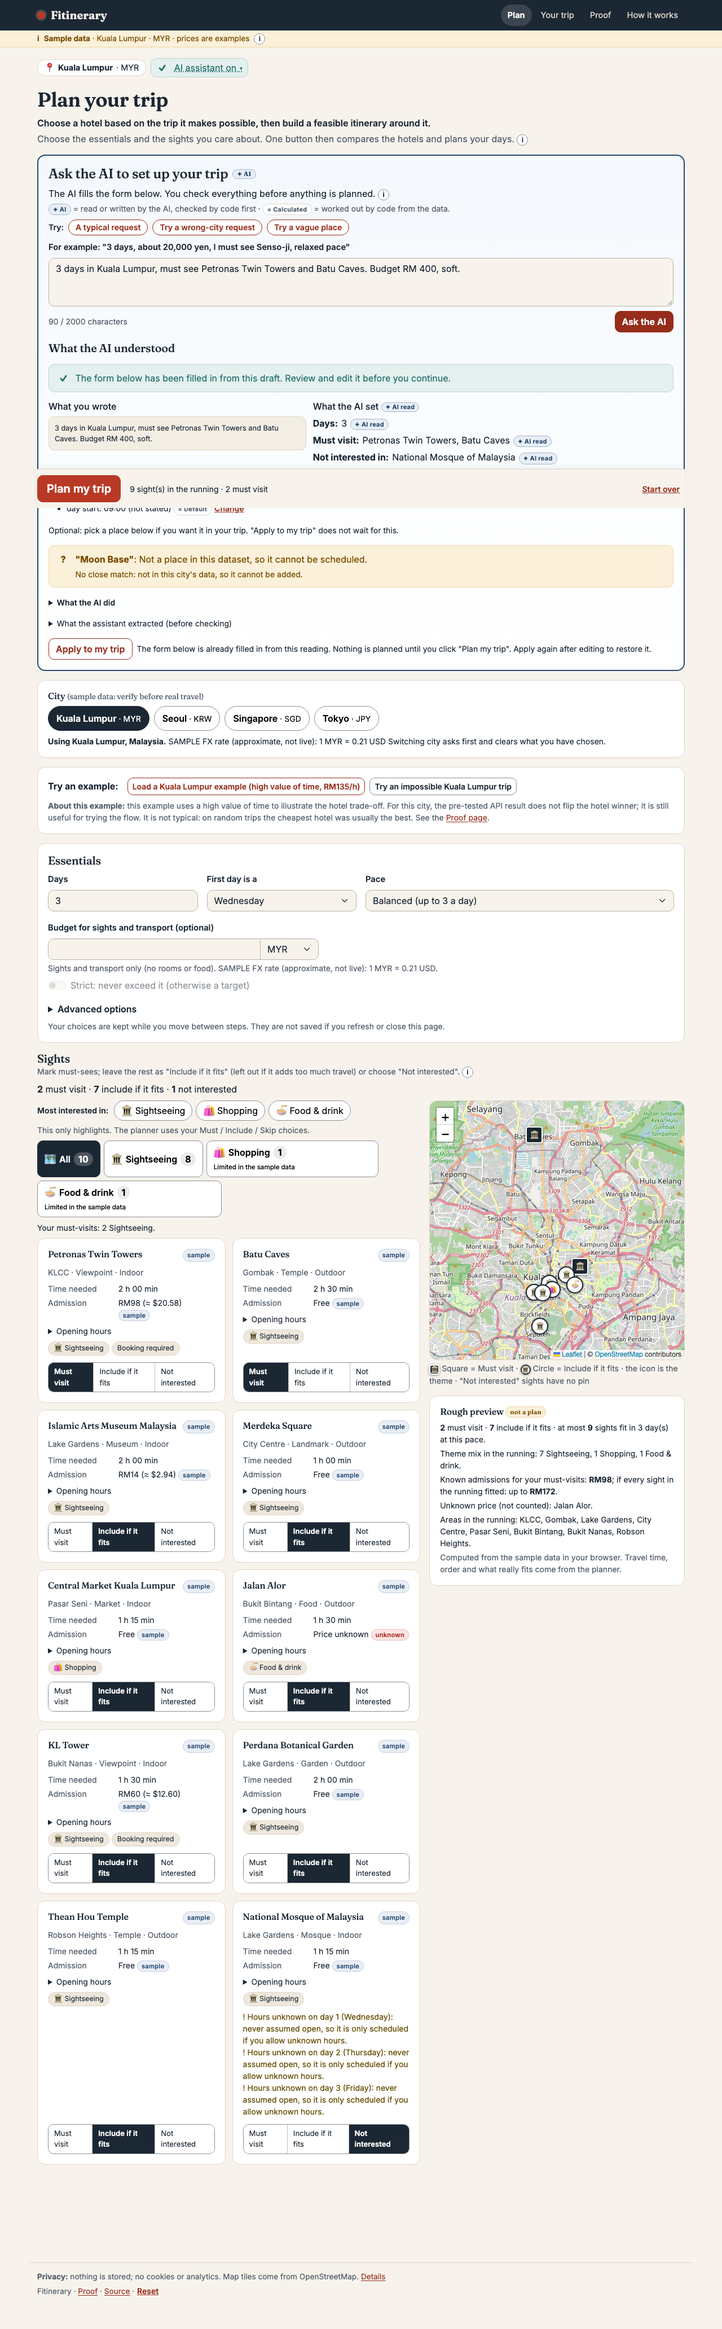
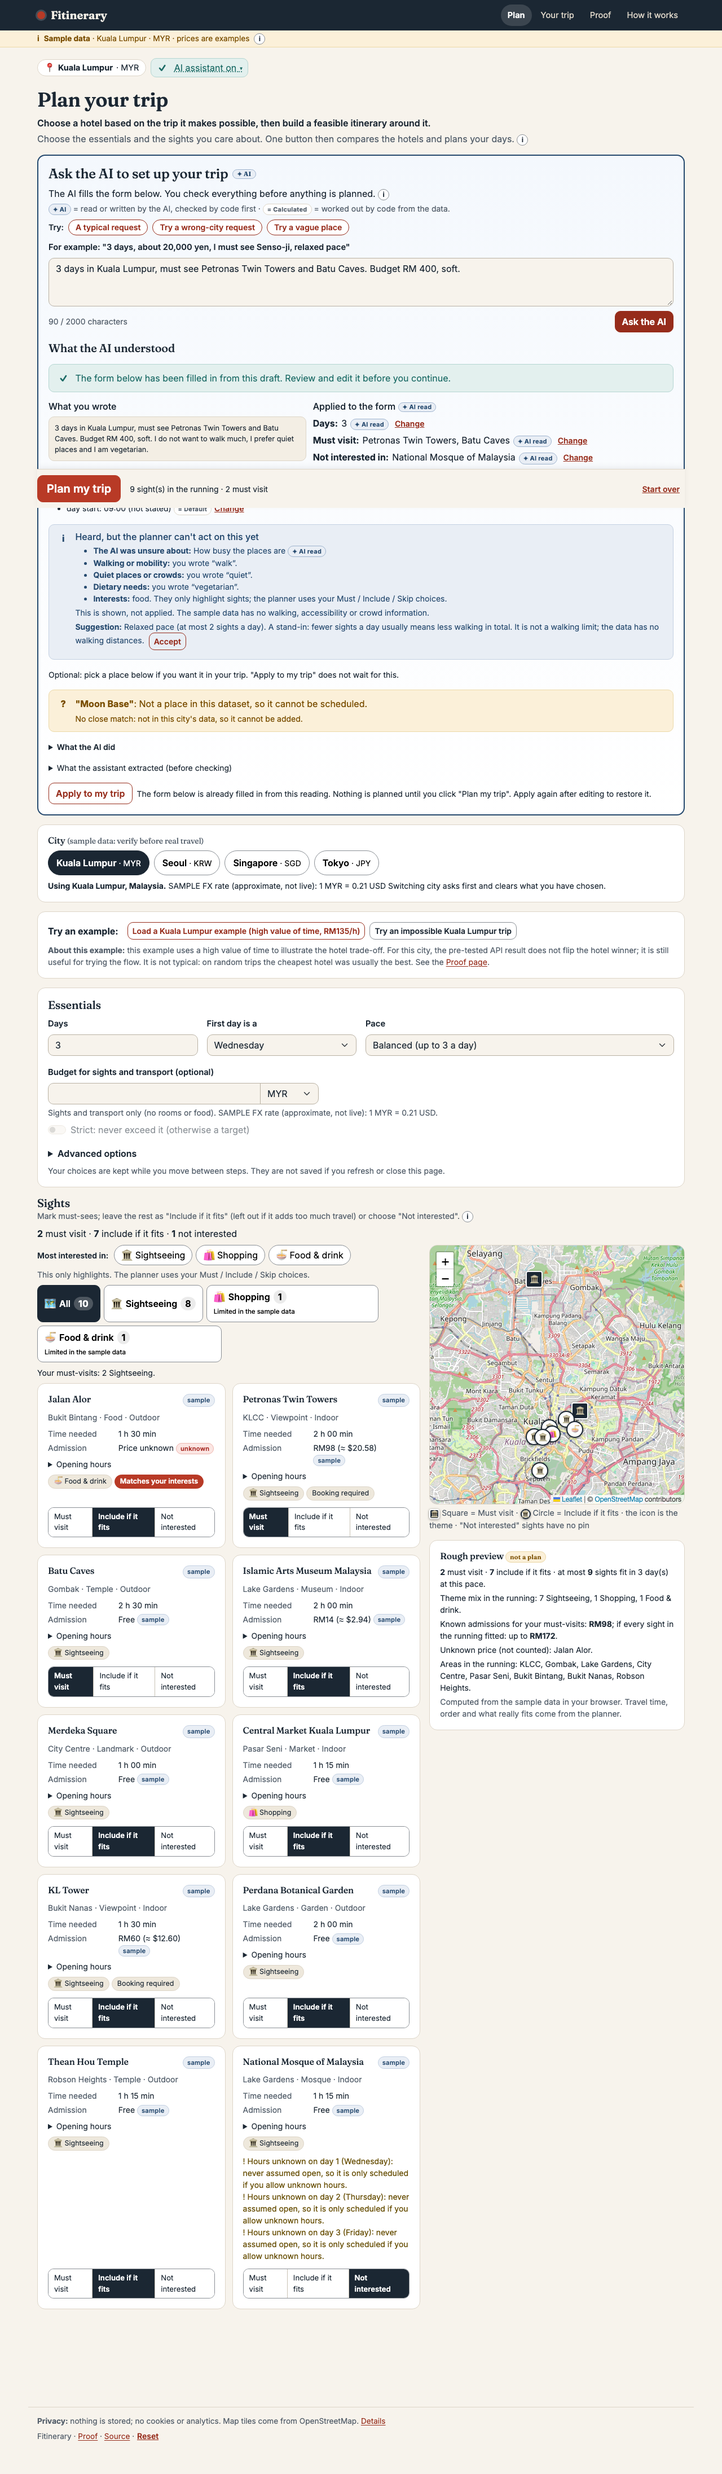
Item 2: what the AI could and could not apply (Applied to the form / Heard, but the planner can't act on this yet), keyword map in four languages, suggestions need an Accept click, tests, canned screenshots

diff --git a/frontend/tests/unit/heard.test.js b/frontend/tests/unit/heard.test.js
@@ -1,0 +1,110 @@
+// "What I could and couldn't apply": keywords per group and language, the footer wording, suggestions that need an Accept click, and the rule that only form fields reach the planner.
+import { afterEach, beforeEach, describe, expect, it } from 'vitest'
+import { mount } from '@vue/test-utils'
+import NlParsePanel from '../../src/components/NlParsePanel.vue'
+import { detectHeard, HEARD_FOOTER, HEARD_GROUPS, suggestionFor } from '../../src/lib/heard.js'
+import { appliedRows } from '../../src/lib/understood.js'
+import { DEFAULT_FORM } from '../../src/lib/prefs.js'
+import { currentPrefs, resetAll, store } from '../../src/store.js'
+import places from '../fixtures/places.json'
+
+// one real-looking sentence per group and language
+const SENTENCES = {
+  walking: { en: 'Three days, I do not want to walk much.', ms: 'Tiga hari, saya tidak mahu banyak berjalan.', ko: '3일 여행, 많이 걷고 싶지 않아요.', zh: '三天行程，我不想走路太多。' },
+  quiet: { en: 'Three days, quiet places please, no crowds.', ms: 'Tiga hari, tempat yang tenang, tidak sesak.', ko: '3일 여행, 조용한 곳이 좋아요.', zh: '三天行程，想去安静的地方。' },
+  access: { en: 'Three days, we need wheelchair access.', ms: 'Tiga hari, kami perlukan kerusi roda.', ko: '3일 여행, 휠체어가 필요해요.', zh: '三天行程，需要轮椅无障碍。' },
+  family: { en: 'Three days with two kids and my grandparents.', ms: 'Tiga hari bersama kanak-kanak dan nenek.', ko: '3일 여행, 아이와 부모님이 함께 가요.', zh: '三天行程，带孩子和老人。' },
+  diet: { en: 'Three days, I am vegetarian and need halal food.', ms: 'Tiga hari, saya vegetarian dan perlukan makanan halal.', ko: '3일 여행, 채식을 해요.', zh: '三天行程，我吃素。' },
+}
+const parseOk = (over = {}) => ({ status: 'ok', draft: { days: 3, budget: null, strict_budget: false, pace: 'balanced', interests: [], must_visit: ['senso_ji'], skip: [], day_start: '09:00', day_end: '19:00',
+  value_of_time_per_hour: 1000, max_walking_minutes_per_day: 90, start_weekday: 2, allow_unknown_hours: false, nights: null, locked: [] }, raw_input_echo: 'x', extracted_json: { days: 3 },
+  resolved_names: [], unresolved_names: [], ambiguities: [], defaults_applied: ['pace: balanced (not stated)'], clarifications: [], unclear: [], assumptions: {}, call_count: 1, mode: 'llm', prompt_version: '2', ...over })
+
+beforeEach(() => { resetAll(); store.cityId = 'tokyo'; store.city = { currency_code: 'JPY', display_currency_code: 'SGD' }; store.places = places.attractions })
+afterEach(() => { resetAll(); store.parseResult = null })
+
+describe('the keyword map', () => {
+  for (const [group, byLang] of Object.entries(SENTENCES)) {
+    for (const [lang, sentence] of Object.entries(byLang)) {
+      it(`${group} is heard in ${lang}`, () => {
+        expect(detectHeard(sentence).map((g) => g.id)).toContain(group)
+      })
+    }
+  }
+  it('every group has terms in all four languages', () => {
+    for (const g of HEARD_GROUPS) for (const lang of ['en', 'ms', 'ko', 'zh']) expect(g[lang].length, `${g.id} ${lang}`).toBeGreaterThan(0)
+  })
+  it('does not fire on ordinary requests, place names that contain a short keyword, or the AI-box examples', () => {
+    for (const t of ['3 days in Tokyo, relaxed pace, I must see Senso-ji and Tokyo Skytree. Budget 40,000 yen.', 'A day trip to Okutama and Bukit Bintang', '3 days in Seoul, balanced pace, must see Gyeongbokgung.', 'Gardens by the Bay and Jewel Changi', '东京三天，浅草寺，预算三万日元', 'Busan is not on the list'])
+      expect(detectHeard(t), t).toEqual([])
+  })
+  it('shows back the words it matched, whole words only unless marked as a prefix', () => {
+    expect(detectHeard('The crowded streets and my kid')).toEqual([expect.objectContaining({ id: 'quiet', terms: ['crowd'] }), expect.objectContaining({ id: 'family', terms: ['kid'] })])
+    expect(detectHeard('okutama')).toEqual([])
+    expect(detectHeard('oku friendly')).toEqual([expect.objectContaining({ id: 'access' })])
+  })
+  it('uses the agreed footer wording', () => {
+    expect(HEARD_FOOTER).toBe('This is shown, not applied. The sample data has no walking, accessibility or crowd information.')
+  })
+})
+
+describe('suggestions are stand-ins, offered only when they would change something', () => {
+  it('walking and family suggest a relaxed pace, quiet, access and diet suggest nothing', () => {
+    expect(suggestionFor('walking', DEFAULT_FORM())).toMatchObject({ field: 'pace', value: 'relaxed' })
+    expect(suggestionFor('family', DEFAULT_FORM())).toMatchObject({ field: 'pace', value: 'relaxed' })
+    for (const g of ['quiet', 'access', 'diet']) expect(suggestionFor(g, DEFAULT_FORM())).toBeNull()
+    expect(suggestionFor('walking', { ...DEFAULT_FORM(), pace: 'relaxed' })).toBeNull()
+    expect(suggestionFor('walking', DEFAULT_FORM()).why).toContain('not a walking limit')
+  })
+})
+
+describe('the panel: shown, not applied; nothing changes without a click; only form fields reach the planner', () => {
+  it('lists the AI notes, the keywords from the user\'s own sentence, interests and the footer, and none of it is an "applied" row', () => {
+    store.parseResult = parseOk({ raw_input_echo: SENTENCES.walking.en + ' ' + SENTENCES.diet.en, unclear: ['how busy the places are'], draft: { ...parseOk().draft, interests: ['food'] } })
+    const w = mount(NlParsePanel)
+    const heard = w.get('[data-testid=nl-heard]').text()
+    expect(heard).toContain("Heard, but the planner can't act on this yet")
+    expect(heard).toContain('The AI was unsure about: how busy the places are')
+    expect(heard).toContain('Walking or mobility') ; expect(heard).toContain('Dietary needs')
+    expect(heard).toContain('Interests: food. They only highlight sights')
+    expect(w.get('[data-testid=heard-footer]').text()).toBe(HEARD_FOOTER)
+    const applied = w.get('[data-testid=nl-rows]').text()
+    expect(applied).not.toMatch(/walk|vegetarian|food|busy/i)
+    expect(applied).toContain('Days')
+  })
+  it('the "Applied to the form" list holds only fields the planner uses, each with an AI read marker and a Change link', () => {
+    const rows = appliedRows(parseOk({ draft: { ...parseOk().draft, budget: 40000, interests: ['food'], pace: 'relaxed' }, defaults_applied: [] }), { places: places.attractions, currency: 'JPY' })
+    expect(rows.map((r) => r.field)).toEqual(['days', 'budget', 'pace', 'must'])
+    store.parseResult = parseOk({ draft: { ...parseOk().draft, budget: 40000 } })
+    const w = mount(NlParsePanel)
+    expect(w.findAll('[data-testid=nl-rows] [data-testid=ai-mark]').length).toBeGreaterThanOrEqual(3)
+    expect(w.findAll('[data-testid^=change-]').length).toBeGreaterThanOrEqual(3)
+  })
+  it('a preference is never turned into a constraint silently: the form and the planner request are unchanged until Accept is clicked', async () => {
+    store.parseResult = parseOk({ raw_input_echo: SENTENCES.walking.en })
+    store.form = { ...DEFAULT_FORM(), days: 3, pace: 'balanced' }
+    const before = JSON.stringify(currentPrefs().prefs)
+    const w = mount(NlParsePanel)
+    expect(w.get('[data-testid=suggestion]').text()).toContain('Relaxed pace')
+    expect(store.form.pace).toBe('balanced')
+    expect(JSON.stringify(currentPrefs().prefs)).toBe(before)                   // heard text and suggestions do not reach the request
+    await w.get('[data-testid=suggestion-accept]').trigger('click')
+    expect(store.form.pace).toBe('relaxed')
+    expect(currentPrefs().prefs.pace).toBe('relaxed')
+    expect(w.get('[data-testid=suggestion-accepted]').text()).toContain('set to relaxed')
+    // only that one field differs from before: nothing else slipped into the request
+    const after = currentPrefs().prefs
+    expect({ ...after, pace: 'balanced' }).toEqual(JSON.parse(before))
+  })
+  it('keywords never add a field to the request (no walking, accessibility, crowd, family or diet key)', () => {
+    const keysBefore = Object.keys(currentPrefs().prefs).sort()
+    store.parseResult = parseOk({ raw_input_echo: Object.values(SENTENCES).map((s) => s.en).join(' ') })
+    mount(NlParsePanel)
+    expect(Object.keys(currentPrefs().prefs).sort()).toEqual(keysBefore)                  // the request has exactly the keys it always had
+    expect(keysBefore.filter((k) => /access|crowd|quiet|family|child|diet|halal|vegetarian/i.test(k))).toEqual([])
+  })
+  it('nothing is shown when nothing was heard', () => {
+    store.parseResult = parseOk({ raw_input_echo: '3 days in Tokyo, relaxed pace.' })
+    expect(mount(NlParsePanel).find('[data-testid=nl-heard]').exists()).toBe(false)
+  })
+})

diff --git a/frontend/src/components/NlParsePanel.vue b/frontend/src/components/NlParsePanel.vue
@@ -11,7 +11,8 @@ import AiMark from './AiMark.vue'
 import AiLegend from './AiLegend.vue'
 import AiDrawer from './AiDrawer.vue'
 import aiExamples from '../lib/aiExamples.json'
-import { assumedList, understoodRows } from '../lib/understood.js'
+import { appliedRows, assumedList, FIELD_CONTROL } from '../lib/understood.js'
+import { detectHeard, HEARD_FOOTER, suggestionFor } from '../lib/heard.js'
 import { store, runParse, chooseName, rateLimited, maxInputChars, applyParseToForm, cancelParse } from '../store.js'
 import { originOf, parseState } from '../lib/rules.js'
 import { titleCase } from '../lib/format.js'
@@ -38,11 +39,19 @@ const cityExamples = computed(() => aiExamples[store.cityId] ?? null)
 const EXAMPLES = [['typical', 'A typical request', 'ex-typical'], ['wrong_city', 'Try a wrong-city request', 'ex-wrong-city'], ['vague_place', 'Try a vague place', 'ex-vague']]
 // Example prompts only FILL the box. Nothing is sent until "Ask the AI" is clicked.
 function fill(kind) { text.value = cityExamples.value?.[kind] ?? ''; document.getElementById('nl-text')?.focus() }
-const rows = computed(() => understoodRows(r.value, { places: store.places ?? [], currency: store.city?.currency_code }))
+const rows = computed(() => appliedRows(r.value, { places: store.places ?? [], currency: store.city?.currency_code }))
+// "Heard, but the planner can't act on this yet": the AI's own `unclear` notes, interests (they only highlight), and keywords found in the user's OWN sentence.
+const heardGroups = computed(() => detectHeard(r.value?.raw_input_echo ?? ''))
+const heardInterests = computed(() => r.value?.draft?.interests ?? [])
+const hasHeard = computed(() => heardGroups.value.length > 0 || (r.value?.unclear?.length ?? 0) > 0 || heardInterests.value.length > 0)
+const accepted = ref([])
+const suggestions = computed(() => heardGroups.value.map((g) => suggestionFor(g.id, store.form)).filter(Boolean).filter((s, i, a) => a.findIndex((x) => x.field === s.field && x.value === s.value) === i))
+// Nothing changes unless the user clicks Accept: this is the ONLY place a suggestion reaches the form.
+function accept(s) { store.form[s.field] = s.value; accepted.value.push(`${s.field === 'pace' ? 'Pace' : s.field} set to ${s.value}. You can change it in the form.`) }
 const assumed = computed(() => assumedList(r.value?.defaults_applied ?? []))
 const applied = ref(false)
-function apply() { applied.value = applyParseToForm(); document.getElementById('f-days')?.focus() }
-function changeField(id) { const el = document.getElementById(id); el?.closest('details')?.setAttribute('open', ''); el?.focus() }
+function apply() { applied.value = applyParseToForm(); accepted.value = []; document.getElementById('f-days')?.focus() }
+function changeField(id) { const el = document.getElementById(id); el?.closest('details')?.setAttribute('open', ''); if (el && !/^(INPUT|SELECT|TEXTAREA|BUTTON)$/.test(el.tagName)) el.setAttribute('tabindex', '-1'); el?.scrollIntoView?.({ block: 'center' }); el?.focus() }
 const unresolved = computed(() => (r.value?.unresolved_names ?? []).filter((u) => !placed.value.some((p) => p.includes(u.input))))
 </script>
 <template>
@@ -84,14 +93,26 @@ const unresolved = computed(() => (r.value?.unresolved_names ?? []).filter((u) =
       <CurrencyConfirm :items="r.currency_confirmations ?? []" />
       <div class="understood-grid">
         <div><h4 class="h6">What you wrote</h4><div class="json-box" data-testid="nl-raw">{{ r.raw_input_echo }}</div></div>
-        <div v-if="rows.length" data-testid="nl-rows"><h4 class="h6">What the AI set <AiMark kind="ai" label="AI read" /></h4>
-          <ul class="understood-rows"><li v-for="row in rows" :key="row.field" :data-testid="`row-${row.field}`"><strong>{{ row.label }}:</strong> <span>{{ row.value }}</span> <AiMark kind="ai" label="AI read" /></li></ul></div>
+        <div v-if="r.draft" data-testid="nl-rows"><h4 class="h6">Applied to the form <AiMark kind="ai" label="AI read" /></h4>
+          <p v-if="!rows.length" class="small mb-0">No field was set from your words; the form below keeps its defaults.</p>
+          <ul v-else class="understood-rows"><li v-for="row in rows" :key="row.field" :data-testid="`row-${row.field}`"><strong>{{ row.label }}:</strong> <span>{{ row.value }}</span> <AiMark kind="ai" label="AI read" />
+            <button type="button" class="btn btn-link btn-sm p-0 ms-1 align-baseline" @click="changeField(FIELD_CONTROL[row.field])" :data-testid="`change-${row.field}`">Change</button></li></ul></div>
       </div>
       <div v-if="assumed.length" data-testid="nl-defaults"><h4 class="h6">I assumed (you did not say)</h4>
         <ul class="mb-0 small"><li v-for="d in assumed" :key="d.text">{{ d.text }} <AiMark kind="calc" label="Default" />
           <button v-if="d.field" type="button" class="btn btn-link btn-sm p-0 ms-1 align-baseline" @click="changeField(d.field)">Change</button></li></ul></div>
       <div v-if="assumptions.length" data-testid="nl-assumptions"><h4 class="h6">Assumptions</h4><ul class="mb-0 small"><li v-for="[k, v] in assumptions" :key="k"><strong>{{ k }}:</strong> {{ v }}</li></ul></div>
-      <div v-if="r.unclear.length" data-testid="nl-unclear"><h4 class="h6">The assistant was unsure about</h4><ul class="mb-0 small"><li v-for="u in r.unclear" :key="u">{{ u }}</li></ul></div>
+      <div v-if="hasHeard" class="notice notice-info" data-testid="nl-heard"><span class="glyph" aria-hidden="true">i</span><div>
+        <h4 class="h6 mb-1">Heard, but the planner can't act on this yet</h4>
+        <ul class="mb-1 small" data-testid="nl-unclear">
+          <li v-for="u in r.unclear" :key="`u-${u}`"><strong>The AI was unsure about:</strong> {{ u }} <AiMark kind="ai" label="AI read" /></li>
+          <li v-for="g in heardGroups" :key="g.id" :data-testid="`heard-${g.id}`"><strong>{{ g.label }}:</strong> you wrote “{{ g.terms.join('”, “') }}”.</li>
+          <li v-if="heardInterests.length" data-testid="heard-interests"><strong>Interests:</strong> {{ heardInterests.join(', ') }}. They only highlight sights; the planner uses your Must / Include / Skip choices.</li>
+        </ul>
+        <p class="small mb-1" data-testid="heard-footer">{{ HEARD_FOOTER }}</p>
+        <div v-for="s in suggestions" :key="s.field + s.value" class="small mb-1" data-testid="suggestion"><strong>Suggestion:</strong> {{ s.text }} {{ s.why }}
+          <button type="button" class="btn btn-outline-primary btn-sm ms-1" @click="accept(s)" data-testid="suggestion-accept">Accept</button></div>
+        <ul v-if="accepted.length" class="small mb-0" aria-live="polite" data-testid="suggestion-accepted"><li v-for="a in accepted" :key="a">{{ a }}</li></ul></div></div>
       <p v-if="r.ambiguities.length || unresolved.length" class="small mb-0" data-testid="nl-optional-note">Optional: pick a place below if you want it in your trip. "Apply to my trip" does not wait for this.</p>
       <NameResolution :unresolved="unresolved" :ambiguities="r.ambiguities" @pick="pick" />
       <ul v-if="placed.length" class="small mb-0" aria-live="polite"><li v-for="p in placed" :key="p">{{ p }}</li></ul>

diff --git a/frontend/src/lib/heard.js b/frontend/src/lib/heard.js
@@ -1,0 +1,58 @@
+// "Heard, but the planner can't act on this yet": preferences that appear in the user's OWN sentence and that the planner has no data for.
+// A small keyword map, built in the browser, in English, Malay, Korean and Chinese. It only LISTS what was said. A subjective preference is never turned into a hard
+// constraint, and nothing here changes the form: a SUGGESTION (an honest structured stand-in) changes something only when the user clicks Accept.
+export const HEARD_FOOTER = 'This is shown, not applied. The sample data has no walking, accessibility or crowd information.'
+
+export const HEARD_GROUPS = [
+  { id: 'walking', label: 'Walking or mobility',
+    en: ['walk*', 'on foot', 'mobility', 'stairs', 'steep', 'hills', 'tired legs'], ms: ['berjalan kaki', 'jalan kaki', 'banyak berjalan', 'mobiliti', 'tangga'],
+    ko: ['걷', '도보', '계단', '이동이 불편', '언덕'], zh: ['走路', '步行', '少走', '爬楼梯', '行动不便', '爬山'] },
+  { id: 'quiet', label: 'Quiet places or crowds',
+    en: ['quiet', 'crowd*', 'busy', 'peaceful', 'tourist trap', 'calm'], ms: ['tenang', 'sesak', 'ramai', 'sunyi', 'senyap'],
+    ko: ['조용', '붐비', '한적', '사람 많', '사람이 많'], zh: ['安静', '人多', '拥挤', '清静', '人少', '人山人海'] },
+  { id: 'access', label: 'Accessibility',
+    en: ['wheelchair', 'accessible', 'accessibility', 'step-free', 'disabled', 'disability'], ms: ['kerusi roda', 'oku', 'boleh diakses', 'akses'],
+    ko: ['휠체어', '접근성', '장애인', '장애'], zh: ['轮椅', '无障碍', '残疾', '残障'] },
+  { id: 'family', label: 'Children or older travellers',
+    en: ['kids', 'kid', 'child', 'children', 'toddler', 'baby', 'elderly', 'grandparent*', 'senior citizen*', 'old parents'], ms: ['kanak-kanak', 'anak', 'bayi', 'warga emas', 'nenek', 'datuk', 'ibu bapa tua'],
+    ko: ['아이', '아기', '어린이', '노인', '부모님', '할머니', '할아버지'], zh: ['孩子', '小孩', '儿童', '老人', '宝宝', '长辈', '带娃'] },
+  { id: 'diet', label: 'Dietary needs',
+    en: ['vegetarian', 'vegan', 'halal', 'kosher', 'gluten', 'allerg*', 'no pork'], ms: ['halal', 'vegetarian', 'alahan', 'tanpa babi', 'vegan'],
+    ko: ['채식', '할랄', '알레르기', '비건'], zh: ['素食', '吃素', '清真', '过敏', '纯素'] },
+]
+
+const LATIN = /^[\x00-\x7f\s'-]+$/
+const norm = (s) => String(s ?? '').normalize('NFKC').toLowerCase()
+
+/** Which groups the sentence touches, with the words that matched (shown back to the user). A Latin term must be a whole word (so "oku" does not match "Okutama"); a trailing * makes it a prefix ("crowd*" finds "crowded"). Korean and Chinese terms match as substrings. */
+export function detectHeard(text) {
+  const t = norm(text)
+  const out = []
+  for (const g of HEARD_GROUPS) {
+    const hits = []
+    for (const lang of ['en', 'ms', 'ko', 'zh']) {
+      for (const term of g[lang]) {
+        const prefix = term.endsWith('*')
+        const k = norm(prefix ? term.slice(0, -1) : term)
+        const esc = k.replace(/[.*+?^${}()|[\]\\]/g, '\\$&')
+        const found = LATIN.test(k) ? new RegExp(`(^|[^a-z0-9])${esc}${prefix ? '' : '($|[^a-z0-9])'}`).test(t) : t.includes(k)
+        const shown = prefix ? term.slice(0, -1) : term
+        if (found && !hits.includes(shown)) hits.push(shown)
+      }
+    }
+    if (hits.length) out.push({ id: g.id, label: g.label, terms: hits })
+  }
+  return out
+}
+
+/** An honest structured stand-in, offered only as a SUGGESTION. It is not what the user asked for, and the text says so. */
+export const SUGGESTIONS = {
+  walking: { field: 'pace', value: 'relaxed', text: 'Relaxed pace (at most 2 sights a day).', why: 'A stand-in: fewer sights a day usually means less walking in total. It is not a walking limit; the data has no walking distances.' },
+  family: { field: 'pace', value: 'relaxed', text: 'Relaxed pace (at most 2 sights a day).', why: 'A stand-in for shorter days. It does not check that places suit children or older travellers; the data has no such information.' },
+}
+
+/** The suggestion for a group, or null if none applies or the form already has that value. */
+export function suggestionFor(groupId, form) {
+  const s = SUGGESTIONS[groupId]
+  return s && form[s.field] !== s.value ? { groupId, ...s } : null
+}

diff --git a/frontend/src/lib/understood.js b/frontend/src/lib/understood.js
@@ -11,6 +11,14 @@ export function assumedList(defaults = []) {
 const defaulted = (defaults, key) => defaults.some((d) => d.toLowerCase().startsWith(key))
 
 /** One row per field the AI actually set (a field filled by a default is listed under "I assumed" instead). */
+/** Fields the PLANNER really uses (so only these are listed as "Applied to the form"): days, budget, pace, value of time, must-see and not-interested places, the first day. */
+export const PLANNER_FIELDS = ['days', 'budget', 'pace', 'vot', 'must', 'skip', 'weekday', 'nights']
+export const FIELD_CONTROL = { days: 'f-days', budget: 'f-budget', pace: 'f-pace', vot: 'f-vot', must: 'sights-h', skip: 'sights-h', weekday: 'f-weekday', nights: 'f-nights' }
+
+export function appliedRows(result, opts = {}) {
+  return understoodRows(result, opts).filter((r) => PLANNER_FIELDS.includes(r.field))
+}
+
 export function understoodRows(result, { places = [], currency = 'JPY' } = {}) {
   const d = result?.draft
   if (!d) return []
@@ -19,6 +27,7 @@ export function understoodRows(result, { places = [], currency = 'JPY' } = {}) {
   const rows = [{ field: 'days', label: 'Days', value: String(d.days) }]
   if (d.budget != null && !defaulted(defaults, 'budget')) rows.push({ field: 'budget', label: 'Budget', value: `${formatLocalMoney(d.budget, currency)}${d.strict_budget ? ' (strict)' : ' (soft target)'}` })
   if (!defaulted(defaults, 'pace')) rows.push({ field: 'pace', label: 'Pace', value: d.pace })
+  if (d.value_of_time_per_hour != null && !defaulted(defaults, 'value of time') && !defaulted(defaults, 'value of time:') && result.extracted_json?.value_of_time != null) rows.push({ field: 'vot', label: 'Value of an hour of your time', value: formatLocalMoney(d.value_of_time_per_hour, currency) })
   if (d.must_visit?.length) rows.push({ field: 'must', label: 'Must visit', value: d.must_visit.map(name).join(', ') })
   if (d.skip?.length) rows.push({ field: 'skip', label: 'Not interested in', value: d.skip.map(name).join(', ') })
   if (d.interests?.length) rows.push({ field: 'interests', label: 'Interests (highlight only)', value: d.interests.join(', ') })

diff --git a/docs/SUBMISSION-FACTS.md b/docs/SUBMISSION-FACTS.md
@@ -1,6 +1,6 @@
 # Submission facts (generated)
 
-Generated 2026-10-17 18:51 UTC by `frontend/scripts/make-submission-facts.mjs`. Each line is copied from a generated file (named beside it); anything not available says "not measured". Re-run the full backend suite, frontend tests, evaluation and Lighthouse before release; do not edit by hand.
+Generated 2026-10-17 18:55 UTC by `frontend/scripts/make-submission-facts.mjs`. Each line is copied from a generated file (named beside it); anything not available says "not measured". Re-run the full backend suite, frontend tests, evaluation and Lighthouse before release; do not edit by hand.
 
 ## Tests
 
